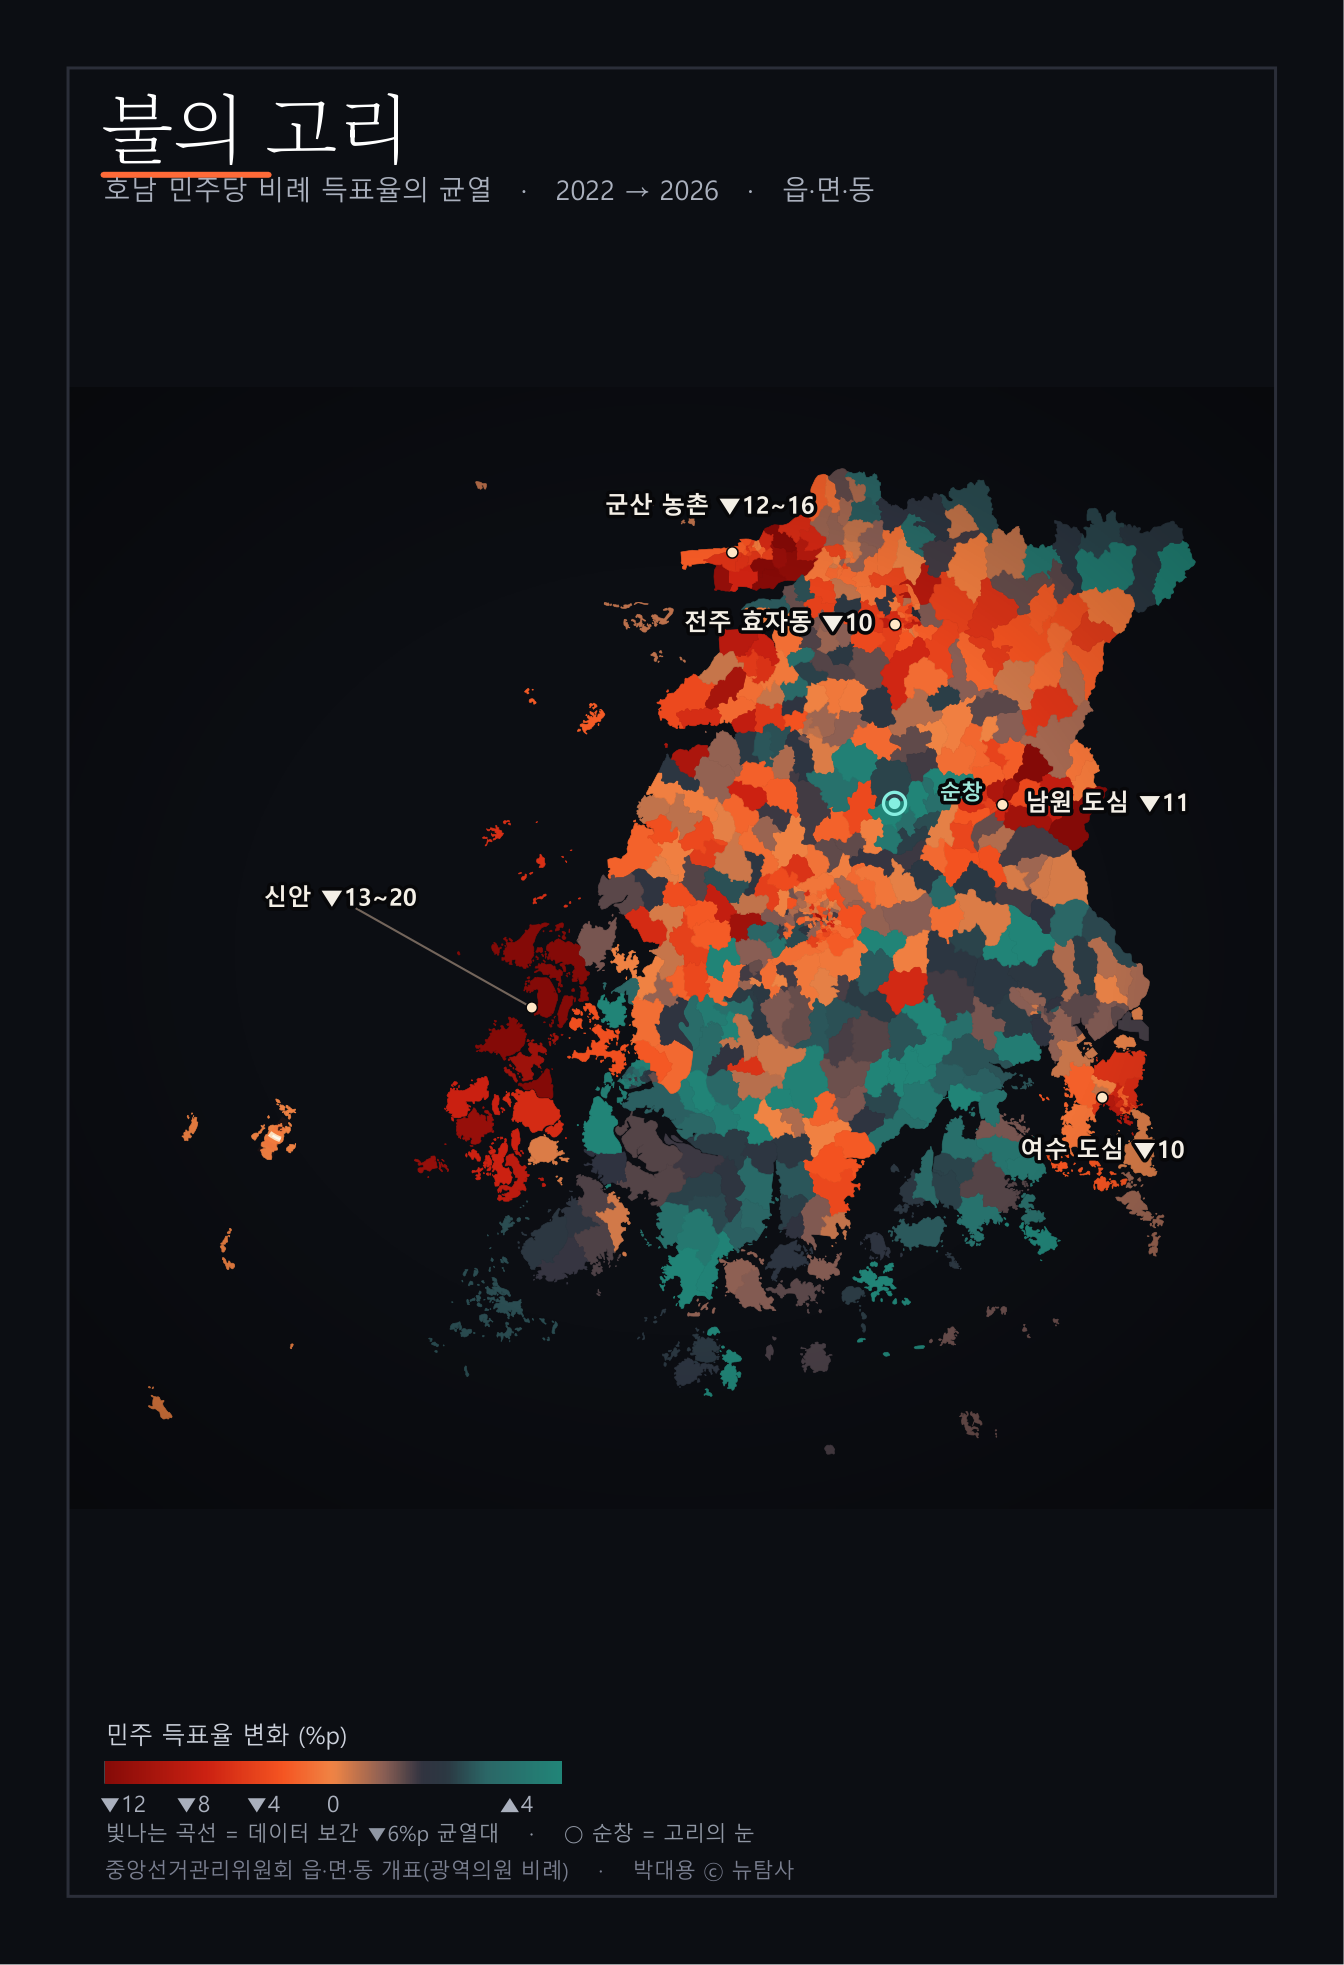
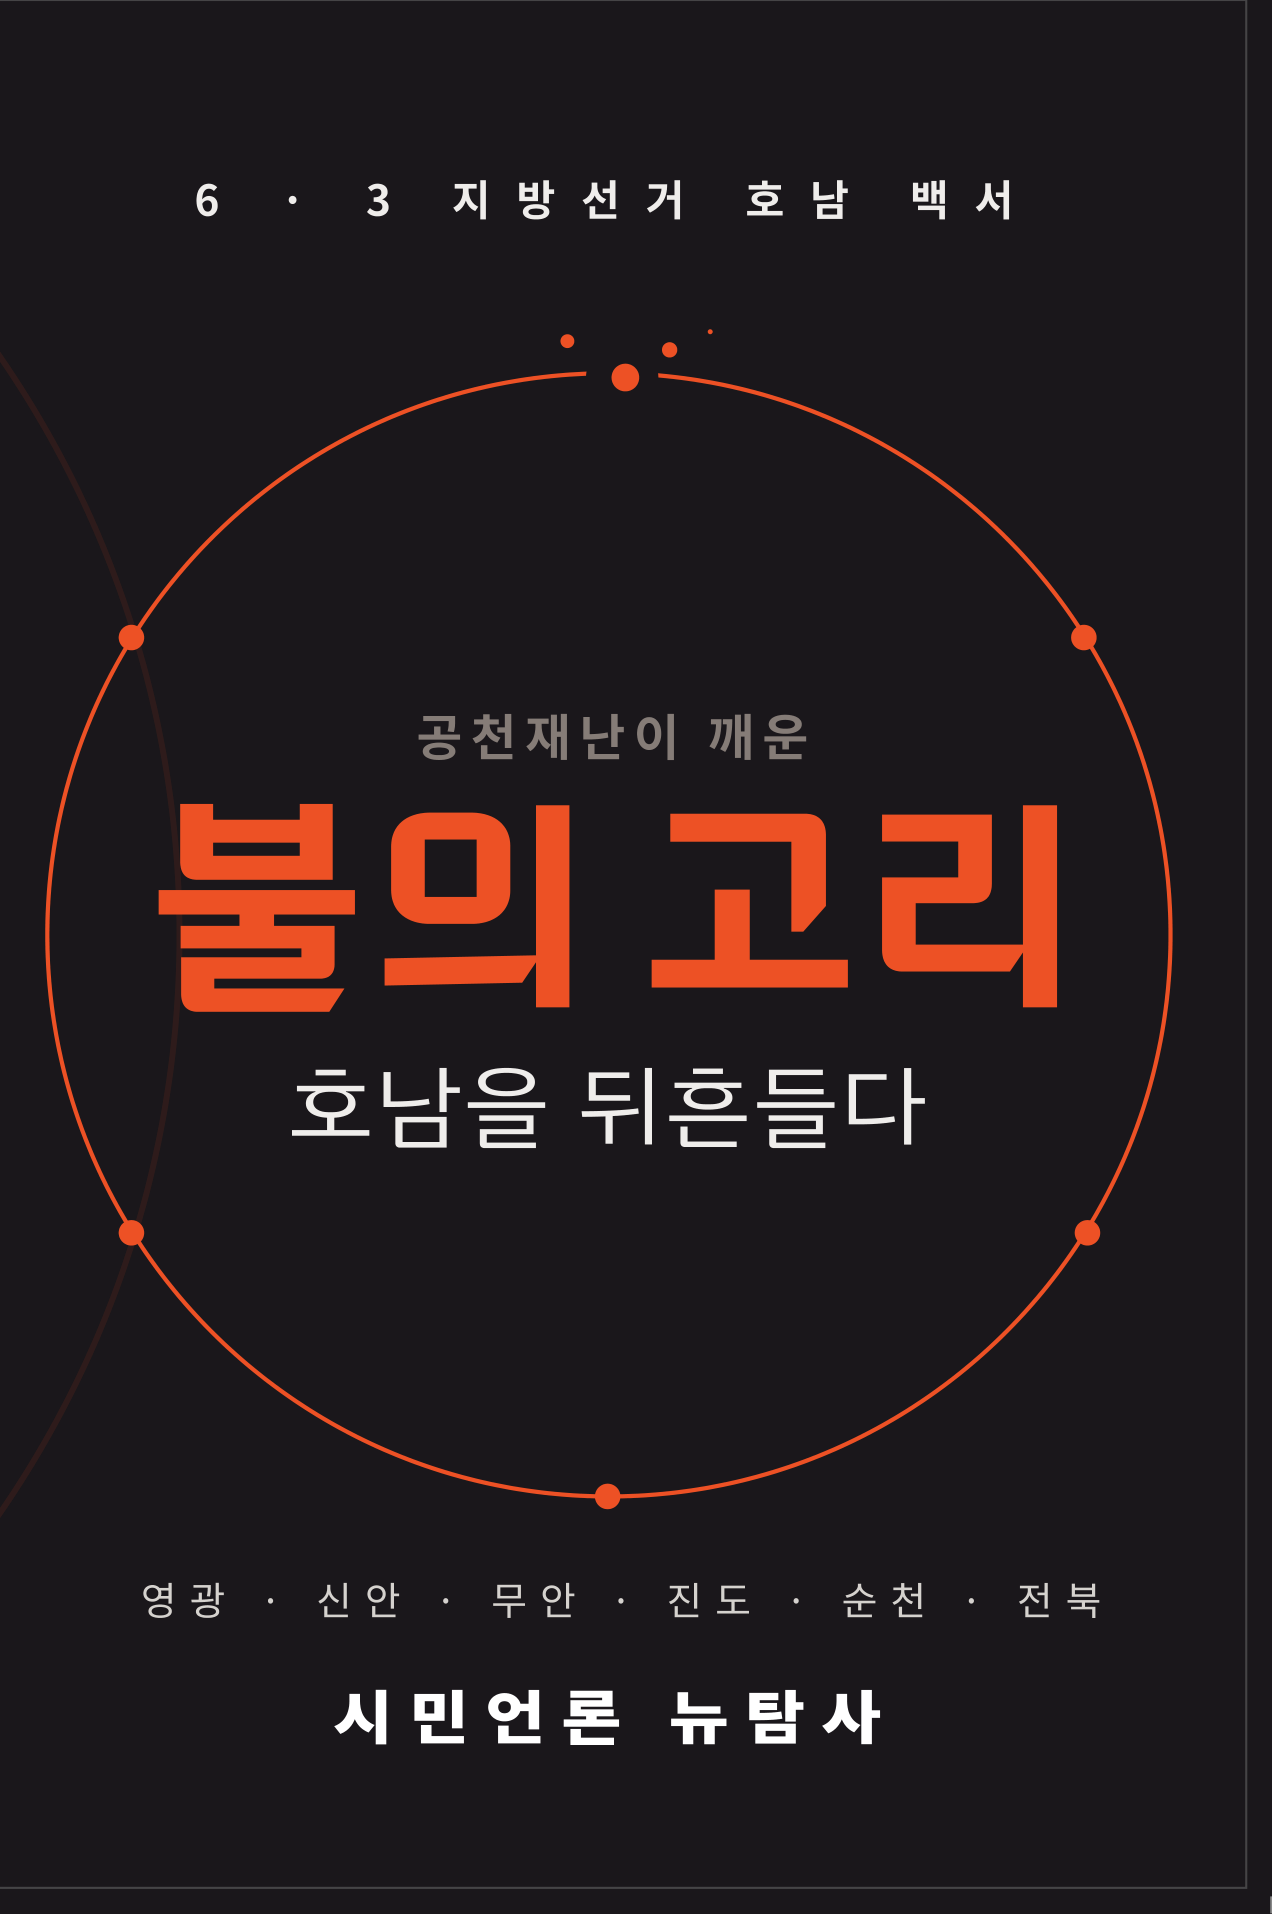
feat(book): 실제 인쇄 앞표지 적용 + 히어로 카피 표지 정렬
- 표지 재킷(불의고리_표지_벡터변환2(인쇄본).ai)에서 앞표지 트림만 추출해
  book-cover.png 교체 (지도 목업 → 실제 인쇄 표지)
- 히어로: 오버라인 '공천재난이 깨운' + 제목 '불의 고리'(골드) + 부제 '호남을 뒤흔들다',
  뒤표지 소개글을 태그라인으로 반영

diff --git a/src/book/content.ts b/src/book/content.ts
@@ -14,16 +14,19 @@ import { ORDER_CONTRACT, formatMoney } from '../data/orderContract'
 
 // ── 히어로 ───────────────────────────────────────────────────────────────────
 export const bookHero = {
-  eyebrow: '시민언론 뉴탐사 · 6·3 지방선거 호남백서',
+  eyebrow: '6·3 지방선거 호남백서 · 시민언론 뉴탐사',
+  overline: '공천재난이 깨운', // 표지 오버라인
   title: ORDER_CONTRACT.product.title, // '불의 고리'
+  subtitle: '호남을 뒤흔들다', // 표지 부제
   authors: '강진구 · 박대용 지음',
-  // 표지 부제 기반
-  tagline: '민주당 공천이 곧 당선이던 호남, 그 단단한 고리에 생긴 균열의 기록.',
+  // 뒤표지 소개글 그대로
+  tagline:
+    '민주당 공천이 곧 당선이던 호남. 검증이 멈춘 자리에서 표심은 무엇을 심판했나 — 영광에서 신안·무안·진도·순천·전북까지 이어진 기록.',
   priceLine: `정가 ${formatMoney(ORDER_CONTRACT.product.unitPrice)} · 신국판 약 285쪽`,
   primaryCta: '예약하기',
   ctaTargetId: 'order',
-  coverImage: '/assets/book-cover.png', // 실제 표지(불의 고리 지도 제목판)
-  coverAlt: '『불의 고리』 표지 — 호남 민주당 의석 독점률의 균열(2022→2026) 지도',
+  coverImage: '/assets/book-cover.png', // 실제 앞표지(인쇄본에서 추출)
+  coverAlt: '『불의 고리』 앞표지 — 공천재난이 깨운 불의 고리, 호남을 뒤흔들다',
 }
 
 // ── 책소개 (발간사 근거 4단락) ───────────────────────────────────────────────

diff --git a/src/book/sections/BookHero.tsx b/src/book/sections/BookHero.tsx
@@ -42,20 +42,38 @@ export default function BookHero() {
             {bookHero.eyebrow}
           </motion.p>
 
+          <motion.p
+            className="mb-1 text-base font-semibold text-mist/60"
+            initial={{ opacity: 0 }}
+            animate={{ opacity: 1 }}
+            transition={{ duration: 0.7, delay: 0.15 }}
+          >
+            {bookHero.overline}
+          </motion.p>
+
           <motion.h1
-            className="text-[clamp(3.4rem,13vw,6rem)] font-black leading-[0.95] text-ink"
+            className="text-[clamp(3.4rem,13vw,6rem)] font-black leading-[0.95] text-gold"
             initial={{ opacity: 0, y: 24 }}
             animate={{ opacity: 1, y: 0 }}
-            transition={{ duration: 0.8, ease: [0.22, 1, 0.36, 1], delay: 0.15 }}
+            transition={{ duration: 0.8, ease: [0.22, 1, 0.36, 1], delay: 0.2 }}
           >
             {bookHero.title}
           </motion.h1>
 
           <motion.p
+            className="mt-2 text-[clamp(1.6rem,5vw,2.4rem)] font-bold text-ink"
+            initial={{ opacity: 0, y: 12 }}
+            animate={{ opacity: 1, y: 0 }}
+            transition={{ duration: 0.8, delay: 0.35 }}
+          >
+            {bookHero.subtitle}
+          </motion.p>
+
+          <motion.p
             className="mt-5 text-lg font-semibold text-mist sm:text-xl"
             initial={{ opacity: 0 }}
             animate={{ opacity: 1 }}
-            transition={{ duration: 0.8, delay: 0.45 }}
+            transition={{ duration: 0.8, delay: 0.5 }}
           >
             {bookHero.authors}
           </motion.p>
